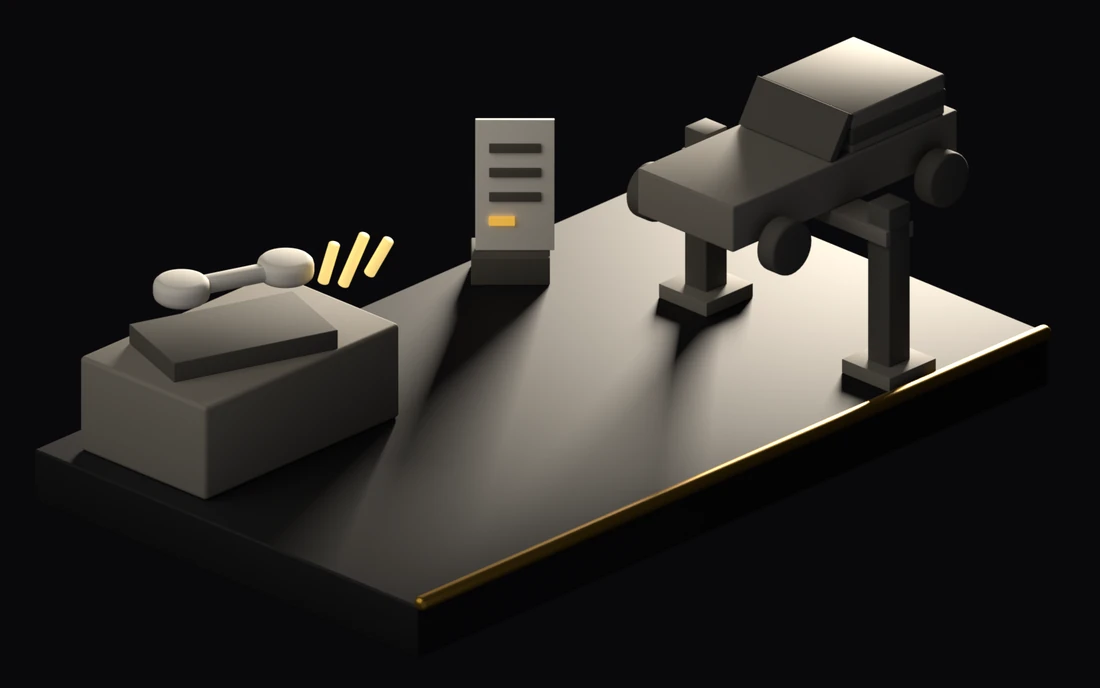
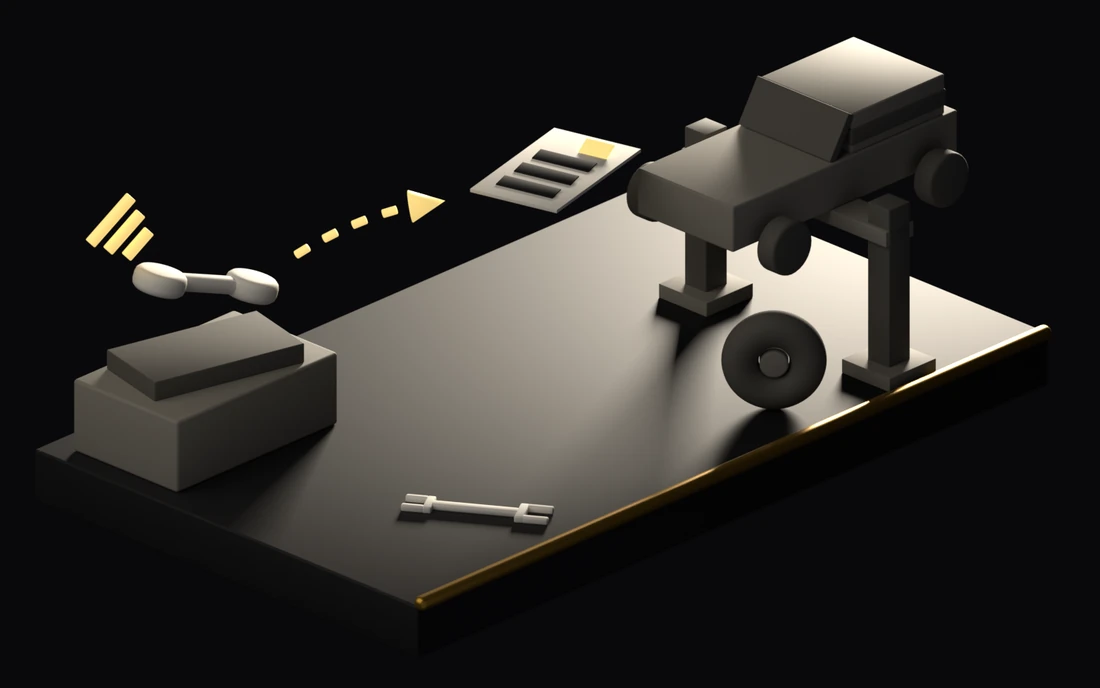
feat(secteurs): le garage passe le metier et l'action, en trois iterations mesurees
DEUX LECTEURS A L'AVEUGLE, chemin d'image hors du projet, protocole fixe.
« Les elements les plus determinants sont le vehicule pose sur une structure a deux
montants (evoquant un pont elevateur) et les deux outils en forme de cle. Cela pointe
vers un metier de mecanicien automobile / reparateur en garage automobile. JE
N'HESITE PAS BEAUCOUP ICI. » Et le second : « les indices convergent plutot vers un
mecanicien automobile (garage auto) ».

Sur l'action, les deux repondent OUI la ou trois iterations avaient recu NON :
« la fleche en pointilles relie directement cet outil flottant au document, sans
qu'aucune figure humaine n'apparaisse entre les deux », « comme un flux automatique
reliant une action a son resultat ».

CE QUE LES TROIS ITERATIONS ONT COUTE, ET CE QU'ELLES ONT APPRIS.

La premiere version ne montrait AUCUNE voiture : le pont elevateur seul etait lu
« un bras articule ». La voiture ajoutee, le metier restait indecis — c'est la CLE
posee a plat qui l'a fait nommer, parce qu'un outil reconnaissable vaut mieux qu'un
decor. Le PNEU l'a verrouille.

La fiche dressee etait lue « un boitier ou une borne equipee d'un ecran » par quatre
lecteurs sur quatre. Le diagnostic que j'avais donne — « couche-la, sa face prendra
le voile speculaire et sortira blanche » — etait FAUX, et la mesure l'a montre :
incliner la feuille vers la lampe eclaire le papier ET l'encre, contraste 1,96:1,
pire qu'au depart. La sortie est ailleurs : feuille strictement a plat, marques
[…]

Changed region(s): [[0.0618, 0.1526, 0.5873, 0.8241], [0.6182, 0.4273, 0.7727, 0.702], [0.0927, 0.6105, 0.2164, 0.7326]]

diff --git a/components/Sectors.tsx b/components/Sectors.tsx
@@ -85,8 +85,10 @@ const SCENES_METIER: Record<string, {
   garage: {
     fichier: "metier-garage",
     etiquettes: [
-      { cle: "garageLabelAccueil", x: 0.2123, y: 0.3190 },   // combine decroche
-      { cle: "garageLabelFiche", x: 0.4680, y: 0.1371 },     // fiche qui se remplit
+      // l'etiquette est dans le ciel, le trait descend sur le combine decroche
+      { cle: "garageLabelAccueil", x: 0.1868, y: 0.2590, cx: 0.1868, cy: 0.4123 },
+      // et sur la feuille en vol qui se remplit
+      { cle: "garageLabelFiche", x: 0.4550, y: 0.1350, cx: 0.5050, cy: 0.2479 },
     ],
   },
   pharma: {
